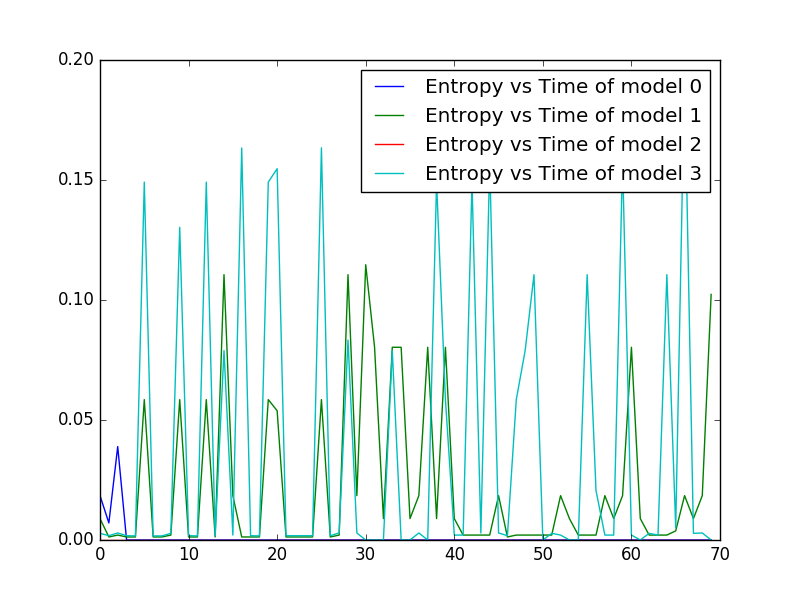
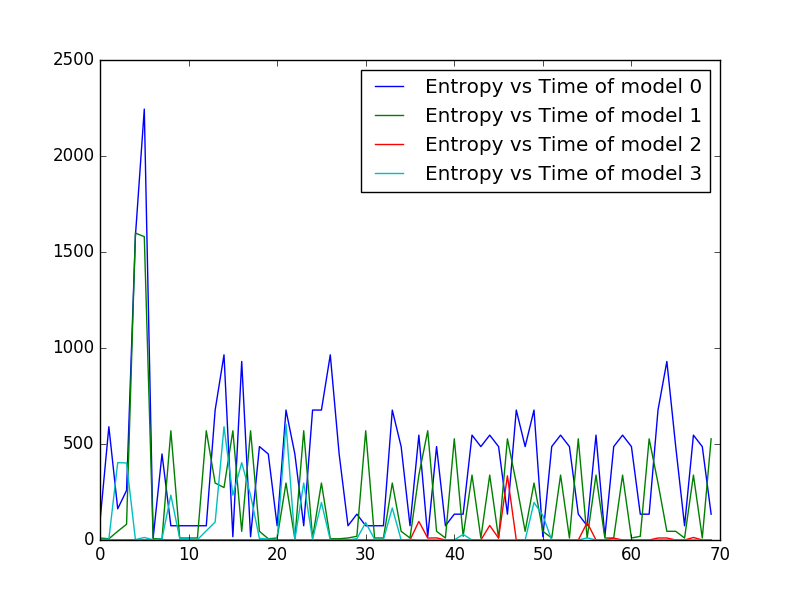
Fixed bug about un-normalized polynomials, pull-request in line soon

diff --git a/src/ABU_estimator.py b/src/ABU_estimator.py
@@ -28,7 +28,18 @@ def polynomial_normalize(polycoeffs,xrange):
     normalized_polynomial = polycoeffs/sum
     # print(sum)
     # polynomial_normalize(normalized_polynomial,xrange)
-    Tests.test_for_normalization(normalized_polynomial,xrange)
+
+    try:
+        Tests.test_for_normalization(normalized_polynomial,xrange)
+    except AssertionError:
+        print("Thest")
+
+    # try:
+    #     #See if it is normalized yet.
+    #     Tests.test_for_normalization(normalized_polynomial,xrange)
+    # except AssertionError:
+    #     #IF it isn't, call itself again.
+    #     polynomial_normalize(normalized_polynomial,xrange)
     return normalized_polynomial, sum
 
 epsilon = np.power(10,-10)
@@ -158,7 +169,11 @@ class ABU():
 
     def poly_findMaximum(self, polyCoeffs):
         derivative = poly.polyder(polyCoeffs, 1)
-        inflexion_points = poly.polyroots(derivative)
+        inflexion_points_complex = poly.polyroots(derivative)
+
+        #Only need real roots.
+        inflexion_points = inflexion_points_complex[np.abs(inflexion_points_complex)==inflexion_points_complex.real]
+        inflexion_points = inflexion_points.real
 
         inflexion_points_inrange = inflexion_points[
             np.logical_and(inflexion_points < self.xrange[1], inflexion_points > self.xrange[0])]
@@ -289,7 +304,7 @@ class ABU():
             plt.plot(self.x_pointsDense,poly.polyval(self.x_pointsDense,posteriorProb_polyCoeffs_refit),label='multiplied rft post pgen vals')
 
         #integrate the posterior to get normalization
-        posteriorProb_polyCoeffs_normalized, posterior_normalization =polynomial_normalize(posteriorProb_polyCoeffs,self.xrange)
+        posteriorProb_polyCoeffs_normalized, posterior_normalization =polynomial_normalize(posteriorProb_polyCoeffs_refit,self.xrange)
 
 
         # posteriorProb_polyCoeffs_normalized[np.abs(posteriorProb_polyCoeffs_normalized)<epsilon]=0 #stabilize
@@ -329,6 +344,7 @@ class ABU():
                 prior_polyCoeffs = self.inital_prior[tp]
             else:
                 prior_polyCoeffs = self.posterior_polyCoeff_typesList[i-1][tp]
+            print("Requesting to estimate type {}".format(tp))
             updated_posterioirPoly,pestim_sample,pestim_max = self.estimate_parameter(likelihood_polyCoeffs,prior_polyCoeffs)
             posterioir_list.append(updated_posterioirPoly)
             estimates_list.append([pestim_sample,pestim_max])
